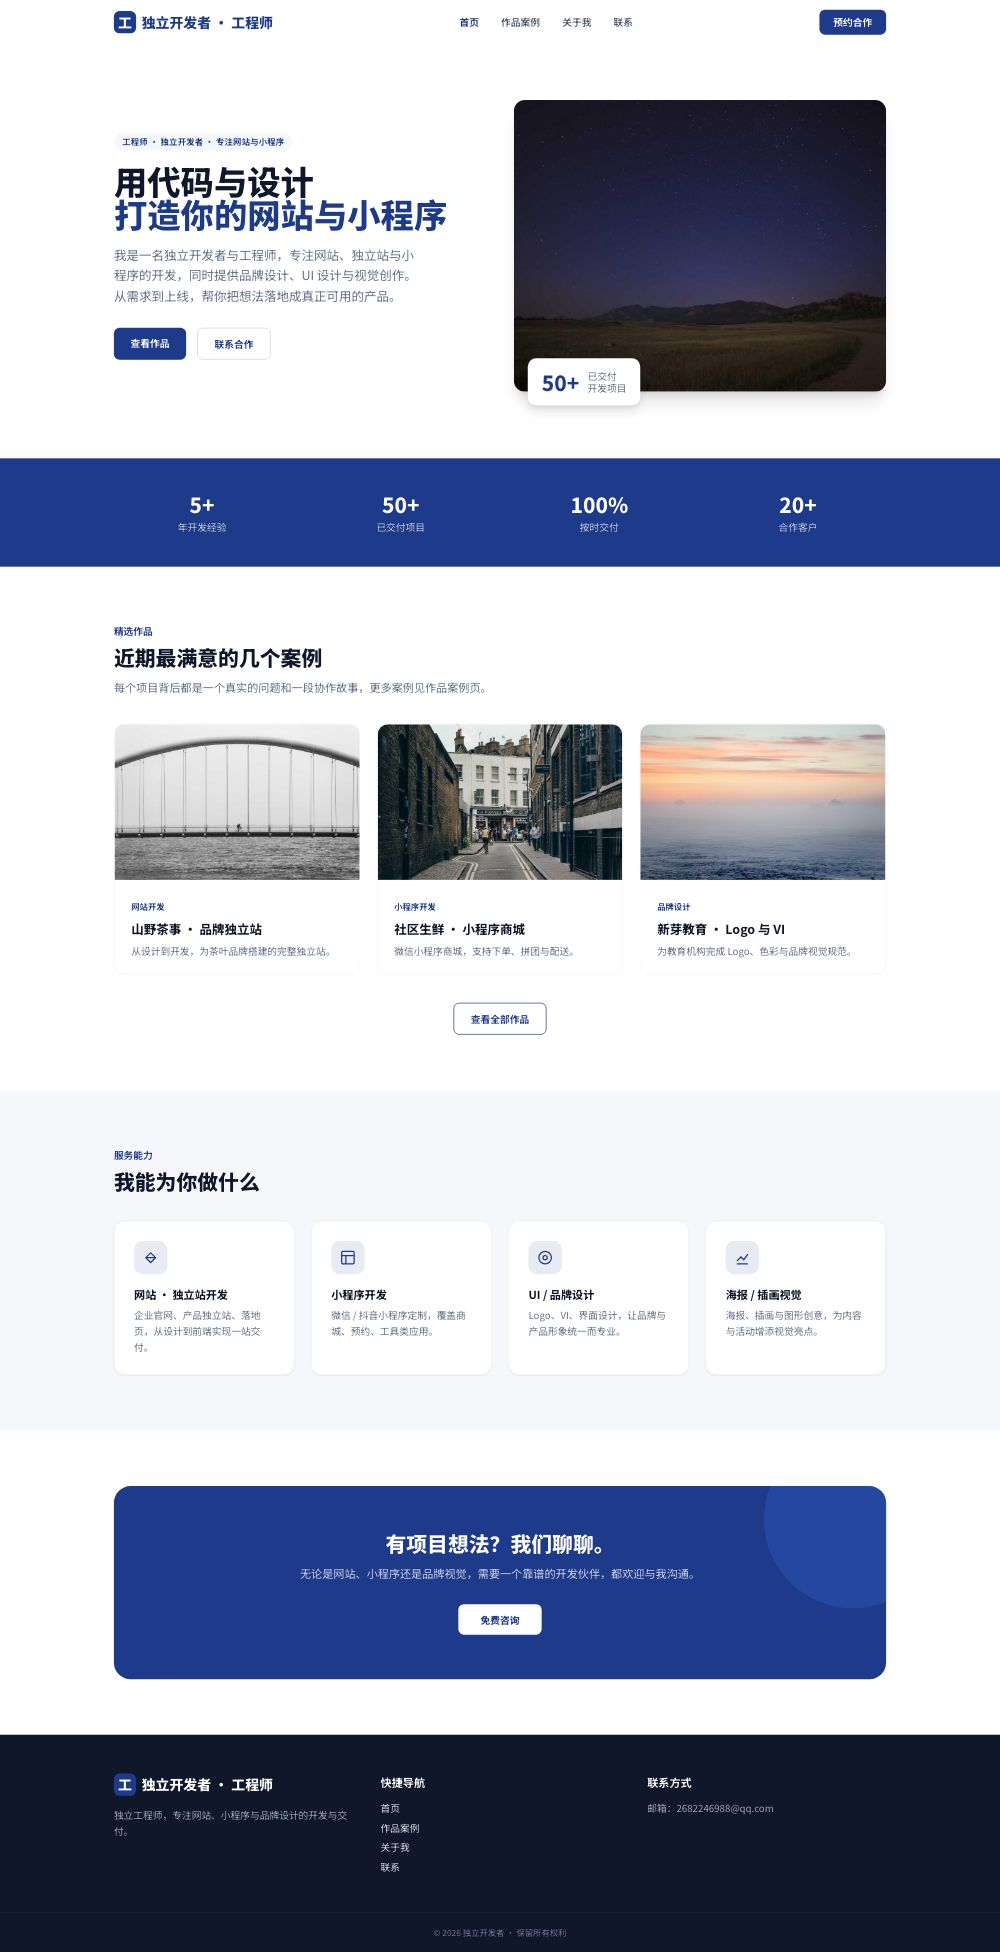
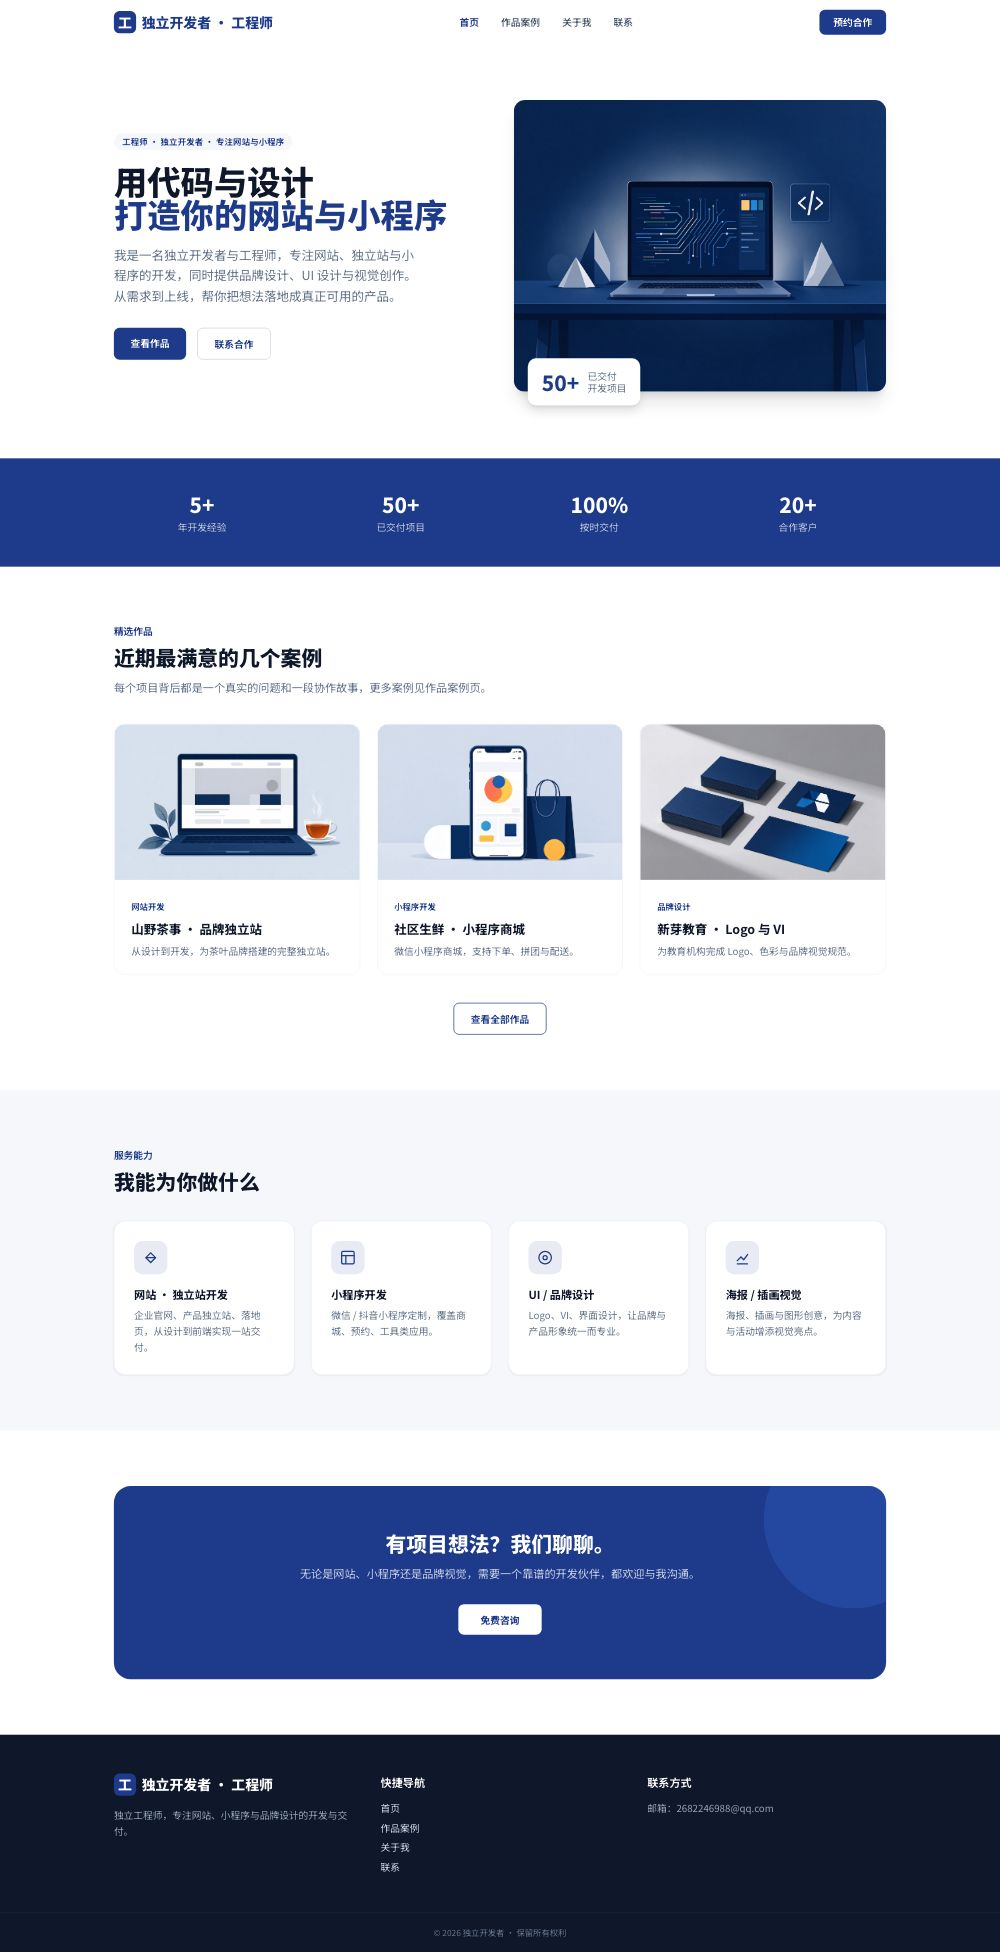
替换网站配图：深蓝商务风格插画（hero/精选作品/作品案例/关于我）

Changed region(s): [[0.093, 0.3438, 0.899, 0.4688], [0.496, 0.0312, 0.899, 0.2188]]

diff --git a/works.html b/works.html
@@ -113,7 +113,7 @@
             data-image="https://picsum.photos/seed/proj-1/900/600"
             data-category-text="网站开发" data-desc="从视觉设计到前端实现，为茶叶品牌搭建的产品展示独立站，支持商品浏览、在线咨询与订单表单，已正式上线运行。"
             data-tags="独立站, 前端开发, 响应式" class="group rounded-2xl border border-slate-100 overflow-hidden hover:shadow-xl hover:-translate-y-1 transition-all bg-white">
-            <img src="https://picsum.photos/seed/proj-1/800/500" alt="独立站项目占位图" class="w-full h-52 object-cover group-hover:scale-105 transition-transform duration-500" loading="lazy" />
+            <img src="assets/proj-tea-website.jpg" alt="独立站项目配图" class="w-full h-52 object-cover group-hover:scale-105 transition-transform duration-500" loading="lazy" />
             <div class="p-6">
               <span class="text-xs font-semibold text-primary">网站开发</span>
               <h3 class="mt-2 text-lg font-bold text-slate-900">山野茶事 · 品牌独立站</h3>
@@ -127,7 +127,7 @@
             data-image="https://picsum.photos/seed/proj-2/900/600"
             data-category-text="小程序开发" data-desc="生鲜社区团购微信小程序，支持商品管理、下单、拼团、自提与配送，多期稳定运行，高峰期支撑上千单。"
             data-tags="微信小程序, 商城, 拼团" class="group rounded-2xl border border-slate-100 overflow-hidden hover:shadow-xl hover:-translate-y-1 transition-all bg-white">
-            <img src="https://picsum.photos/seed/proj-2/800/500" alt="小程序商城项目占位图" class="w-full h-52 object-cover group-hover:scale-105 transition-transform duration-500" loading="lazy" />
+            <img src="assets/proj-fresh-miniapp.jpg" alt="小程序商城项目配图" class="w-full h-52 object-cover group-hover:scale-105 transition-transform duration-500" loading="lazy" />
             <div class="p-6">
               <span class="text-xs font-semibold text-primary">小程序开发</span>
               <h3 class="mt-2 text-lg font-bold text-slate-900">社区生鲜 · 小程序商城</h3>
@@ -141,7 +141,7 @@
             data-image="https://picsum.photos/seed/proj-3/900/600"
             data-category-text="品牌设计" data-desc="为一家教育机构完成 Logo 与完整品牌视觉，覆盖课件模板、官网与线下物料，风格统一且辨识度高。"
             data-tags="Logo, VI, 视觉规范" class="group rounded-2xl border border-slate-100 overflow-hidden hover:shadow-xl hover:-translate-y-1 transition-all bg-white">
-            <img src="https://picsum.photos/seed/proj-3/800/500" alt="品牌设计项目占位图" class="w-full h-52 object-cover group-hover:scale-105 transition-transform duration-500" loading="lazy" />
+            <img src="assets/proj-brand-vi.jpg" alt="品牌设计项目配图" class="w-full h-52 object-cover group-hover:scale-105 transition-transform duration-500" loading="lazy" />
             <div class="p-6">
               <span class="text-xs font-semibold text-primary">品牌设计</span>
               <h3 class="mt-2 text-lg font-bold text-slate-900">新芽教育 · Logo 与品牌设计</h3>
@@ -155,7 +155,7 @@
             data-image="https://picsum.photos/seed/proj-4/900/600"
             data-category-text="网站开发" data-desc="美食内容独立站，支持文章分类、关键词检索与会员订阅，注重阅读体验与移动端适配。"
             data-tags="内容站, 检索, 会员" class="group rounded-2xl border border-slate-100 overflow-hidden hover:shadow-xl hover:-translate-y-1 transition-all bg-white">
-            <img src="https://picsum.photos/seed/proj-4/800/500" alt="内容独立站项目占位图" class="w-full h-52 object-cover group-hover:scale-105 transition-transform duration-500" loading="lazy" />
+            <img src="assets/proj-content-site.jpg" alt="内容独立站项目配图" class="w-full h-52 object-cover group-hover:scale-105 transition-transform duration-500" loading="lazy" />
             <div class="p-6">
               <span class="text-xs font-semibold text-primary">网站开发</span>
               <h3 class="mt-2 text-lg font-bold text-slate-900">知味食谱 · 内容独立站</h3>
@@ -169,7 +169,7 @@
             data-image="https://picsum.photos/seed/proj-5/900/600"
             data-category-text="小程序开发" data-desc="面向服务类商家的小程序，支持服务排期、预约下单、到店提醒与订单管理，降低人工排期成本。"
             data-tags="预约, 排期, 提醒" class="group rounded-2xl border border-slate-100 overflow-hidden hover:shadow-xl hover:-translate-y-1 transition-all bg-white">
-            <img src="https://picsum.photos/seed/proj-5/800/500" alt="服务预约小程序项目占位图" class="w-full h-52 object-cover group-hover:scale-105 transition-transform duration-500" loading="lazy" />
+            <img src="assets/proj-booking-miniapp.jpg" alt="服务预约小程序项目配图" class="w-full h-52 object-cover group-hover:scale-105 transition-transform duration-500" loading="lazy" />
             <div class="p-6">
               <span class="text-xs font-semibold text-primary">小程序开发</span>
               <h3 class="mt-2 text-lg font-bold text-slate-900">预约工坊 · 服务预约小程序</h3>
@@ -183,7 +183,7 @@
             data-image="https://picsum.photos/seed/proj-6/900/600"
             data-category-text="品牌设计" data-desc="音乐节系列海报与现场视觉物料，整体风格统一、具有传播力，适用于线上传播与线下布置。"
             data-tags="海报, 插画, 活动视觉" class="group rounded-2xl border border-slate-100 overflow-hidden hover:shadow-xl hover:-translate-y-1 transition-all bg-white">
-            <img src="https://picsum.photos/seed/proj-6/800/500" alt="音乐节海报项目占位图" class="w-full h-52 object-cover group-hover:scale-105 transition-transform duration-500" loading="lazy" />
+            <img src="assets/proj-music-poster.jpg" alt="音乐节海报项目配图" class="w-full h-52 object-cover group-hover:scale-105 transition-transform duration-500" loading="lazy" />
             <div class="p-6">
               <span class="text-xs font-semibold text-primary">品牌设计</span>
               <h3 class="mt-2 text-lg font-bold text-slate-900">城市音乐节 · 海报与视觉</h3>

diff --git a/index.html b/index.html
@@ -119,7 +119,7 @@
         </div>
         <!-- 右侧：主视觉占位图 -->
         <div data-reveal class="relative">
-          <img src="https://picsum.photos/seed/hero-portfolio/900/700" alt="设计师工作台示例图"
+          <img src="assets/hero.jpg" alt="工程师工作台配图"
             class="w-full h-[340px] md:h-[420px] object-cover rounded-2xl shadow-xl" loading="eager" />
           <!-- 浮动小卡片：一句话背书 -->
           <div class="absolute -bottom-5 left-5 bg-white rounded-xl shadow-lg px-5 py-4 flex items-center gap-3">
@@ -152,7 +152,7 @@
         <div class="mt-10 grid md:grid-cols-3 gap-6">
           <!-- 作品卡片 1 -->
           <a data-reveal href="works.html" class="group block rounded-2xl border border-slate-100 overflow-hidden hover:shadow-xl hover:-translate-y-1 transition-all bg-white">
-            <img src="https://picsum.photos/seed/work-1/800/520" alt="独立站项目占位图" class="w-full h-56 object-cover group-hover:scale-105 transition-transform duration-500" loading="lazy" />
+            <img src="assets/work-tea-website.jpg" alt="独立站项目配图" class="w-full h-56 object-cover group-hover:scale-105 transition-transform duration-500" loading="lazy" />
             <div class="p-6">
               <span class="text-xs font-semibold text-primary">网站开发</span>
               <h3 class="mt-2 text-lg font-bold text-slate-900">山野茶事 · 品牌独立站</h3>
@@ -161,7 +161,7 @@
           </a>
           <!-- 作品卡片 2 -->
           <a data-reveal href="works.html" class="group block rounded-2xl border border-slate-100 overflow-hidden hover:shadow-xl hover:-translate-y-1 transition-all bg-white">
-            <img src="https://picsum.photos/seed/work-2/800/520" alt="小程序项目占位图" class="w-full h-56 object-cover group-hover:scale-105 transition-transform duration-500" loading="lazy" />
+            <img src="assets/work-miniapp-shop.jpg" alt="小程序项目配图" class="w-full h-56 object-cover group-hover:scale-105 transition-transform duration-500" loading="lazy" />
             <div class="p-6">
               <span class="text-xs font-semibold text-primary">小程序开发</span>
               <h3 class="mt-2 text-lg font-bold text-slate-900">社区生鲜 · 小程序商城</h3>
@@ -170,7 +170,7 @@
           </a>
           <!-- 作品卡片 3 -->
           <a data-reveal href="works.html" class="group block rounded-2xl border border-slate-100 overflow-hidden hover:shadow-xl hover:-translate-y-1 transition-all bg-white">
-            <img src="https://picsum.photos/seed/work-3/800/520" alt="品牌设计项目占位图" class="w-full h-56 object-cover group-hover:scale-105 transition-transform duration-500" loading="lazy" />
+            <img src="assets/work-brand-vi.jpg" alt="品牌设计项目配图" class="w-full h-56 object-cover group-hover:scale-105 transition-transform duration-500" loading="lazy" />
             <div class="p-6">
               <span class="text-xs font-semibold text-primary">品牌设计</span>
               <h3 class="mt-2 text-lg font-bold text-slate-900">新芽教育 · Logo 与 VI</h3>

diff --git a/about.html b/about.html
@@ -126,7 +126,7 @@
         </div>
         <!-- 个人照片占位图 -->
         <div data-reveal class="md:justify-self-end">
-          <img src="https://picsum.photos/seed/portrait-li/600/720" alt="个人照片占位图"
+          <img src="assets/about-engineer.jpg" alt="独立工程师配图"
             class="w-full max-w-xs rounded-2xl shadow-xl object-cover aspect-[3/4]" loading="lazy" />
         </div>
       </div>
